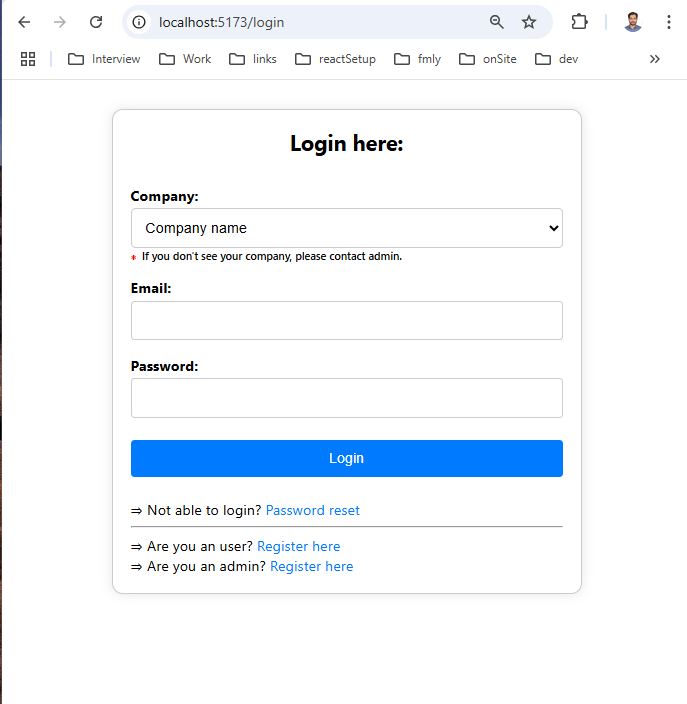
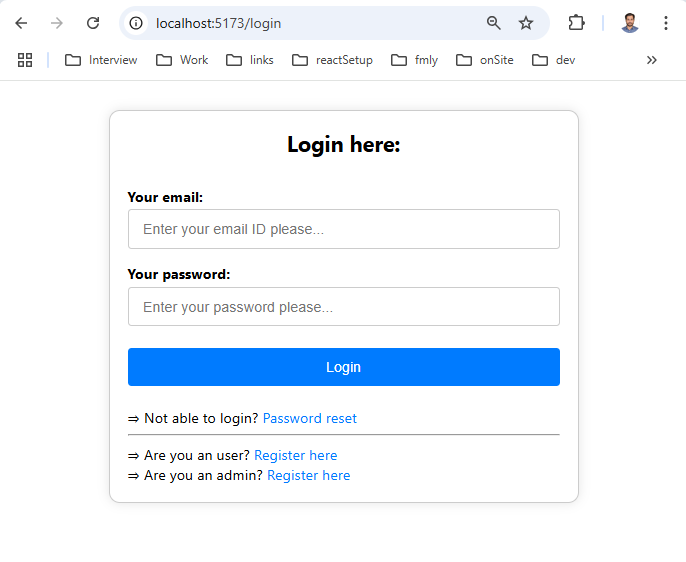
pushing latest learning

diff --git a/frontend/src/components/molecules/LoginZone/Login.tsx b/frontend/src/components/molecules/LoginZone/Login.tsx
@@ -1,38 +1,43 @@
-import React, { useState, useEffect } from 'react'
-import {getCompanyListName} from './Utils'
+import React, { useState } from 'react'
+import { handleLoginBtnClick} from './Utils'
 
 const Login: React.FC = () => {
-  const [getCompanyName, setCompanyName] = useState<string[]>([])
+  const [helperTextMessage, setHelperTextMessage] = useState('')
+  const [formData, setFormData] = useState({
+    emailId: '',
+    password: '',
+  })
 
-  useEffect(() => {
-    getCompanyListName(setCompanyName)
-  },[])
+  const handleFormValueChange = (e: React.ChangeEvent<HTMLInputElement>) => {
+    const { name, value } = e.target;
+    setFormData(prevData => ({
+      ...prevData,
+      [name]: value,
+    }));
+  };
 
-  const handleBtnClick = () => {}
+  const handleBtnClick = () => {
+    handleLoginBtnClick(setHelperTextMessage, formData)
+  }
 
   return (
     <div className="login-zone-screen">
       <h2>Login here:</h2>
       <form>
-        <label htmlFor="role">Company:</label>
-        <select id="role" name="role" required>
-          <option value="">Company name</option>
-          {getCompanyName.map((company: string) => (
-            <option key={company} value={company}>
-              {company}
-            </option>
-          ))}
-        </select>
-        <p className="helpher-text">
-          <span>&#8727; &nbsp;</span>If you don't see your company, please contact admin.
-        </p>
-        <label htmlFor="email">Email:</label>
-        <input type="text" id="email" name="email" required />
+        <label htmlFor="email">Your email:</label>
+        <input type="text" name="emailId" value={formData.emailId} placeholder="Enter your email ID please..." onChange={handleFormValueChange} />
 
-        <label htmlFor="password">Password:</label>
-        <input type="password" id="password" name="password" required />
+        <label htmlFor="password">Your password:</label>
+        <input type="password" name="password" value={formData.password} placeholder="Enter your password please..." onChange={handleFormValueChange} />
 
-        <button type="submit" onClick={handleBtnClick}>
+        {helperTextMessage && (
+          <p className="helpher-text">
+            <span>&#8727; &nbsp;</span>
+            {helperTextMessage}
+          </p>
+        )}
+
+        <button type="button" onClick={handleBtnClick}>
           Login
         </button>
       </form>

diff --git a/frontend/src/components/molecules/LoginZone/Utils.ts b/frontend/src/components/molecules/LoginZone/Utils.ts
@@ -1,4 +1,4 @@
-import { PUBLIC_API_URL } from "../../../constants"
+import { PRIVATE_API_URL, PUBLIC_API_URL } from "../../../constants"
 
 /**
  * 
@@ -113,6 +113,51 @@ export const handleRegistrationBtnClick = async (
     })
     .catch(() => {
       setHelperTextMessage('An error occurred while registering the company.');
+    });
+  }
+}
+
+export const handleLoginBtnClick = async (
+  setHelperTextMessage: (value: string) => void,
+  formData: { [key: string]: string }
+): Promise<void> => {
+  if (formData?.emailId === '') {
+    setHelperTextMessage('Please enter your email ID.');
+    return;
+  } else if (formData?.password === '') {
+    setHelperTextMessage('Please enter your password.');
+    return;
+  } else {
+    const url = `${PRIVATE_API_URL}login-user`;
+    fetch(url, {
+      method: 'POST',
+      body: JSON.stringify({
+      emailId: formData?.emailId,
+      password: formData?.password,
+      }),
+      headers: {
+      'Content-Type': 'application/json',
+      'Accept': 'application/json',
+      },
+    })
+    .then((response) => {
+      if (response.status === 200) {
+        return response.text();
+      } else {
+        setHelperTextMessage('Invalid email ID or password.');
+        throw new Error('Invalid email ID or password.');
+      }
+    })
+    .then((resp) => {
+      if (resp) {
+        window.sessionStorage.setItem('AccessToken', resp);
+        window.location.assign('/dashboard'); 
+      } else {
+        setHelperTextMessage('Unexpected response format.');
+      }
+    })
+    .catch((e) => {
+      setHelperTextMessage(e.message);
     });
   }
 }

diff --git a/frontend/src/routes/index.tsx b/frontend/src/routes/index.tsx
@@ -4,6 +4,7 @@ import ResetPassword from '../components/molecules/LoginZone/ResetPassword'
 import RegisterUser from '../components/molecules/LoginZone/RegisterUser'
 import RegisterCompany from '../components/molecules/LoginZone/RegisterCompany'
 import Home from '../components/molecules/Home'
+import Dashboard from '../components/molecules/Dashboard'
 
 const getRoutingPath = () => {
   const routes = [
@@ -44,6 +45,14 @@ const getRoutingPath = () => {
       element: (
         <Suspense fallback={<div>Loading...</div>}>
           <RegisterCompany />
+        </Suspense>
+      ),
+    },
+    {
+      path: '/dashboard',
+      element: (
+        <Suspense fallback={<div>Loading...</div>}>
+          <Dashboard />
         </Suspense>
       ),
     },

diff --git a/frontend/src/components/molecules/Dashboard/index.tsx b/frontend/src/components/molecules/Dashboard/index.tsx
@@ -1,9 +1,10 @@
-const Dashboard: React.FC<{ firstName: string }> = (props) => {
-  const { firstName } = props
+const Dashboard: React.FC = () => {
+  //const { firstName } = props
 
   return (
     <div>
-      <h1>Hi {firstName}</h1>
+      {/* <h1>Hi {firstName}</h1> */}
+      <h1>Dashboard</h1>
     </div>
   )
 }

diff --git a/frontend/src/constants/index.ts b/frontend/src/constants/index.ts
@@ -1,2 +1,3 @@
 export const API_HOST_URL = 'http://localhost:8080/'
 export const PUBLIC_API_URL = `${API_HOST_URL}public/v1/`
+export const PRIVATE_API_URL = `${API_HOST_URL}login/v1/`

diff --git a/backend/src/main/java/com/anu3dev/backend/service/LoginService.java b/backend/src/main/java/com/anu3dev/backend/service/LoginService.java
@@ -30,12 +30,13 @@ public class LoginService implements ILoginService {
     @Autowired
     AuthenticationManager authManager;
 
+    @Override
     public String verifyUserLogin(User user) {
         Authentication authentication = authManager.authenticate(new UsernamePasswordAuthenticationToken(user.getEmailId(), user.getPassword()));
         if (authentication.isAuthenticated()) {
             return jwtService.generateToken(user.getEmailId());
         } else {
-            return "failure";
+            return "Either username or password is incorrect.";
         }
     }
 

diff --git a/backend/src/main/java/com/anu3dev/backend/service/ILoginService.java b/backend/src/main/java/com/anu3dev/backend/service/ILoginService.java
@@ -8,11 +8,11 @@ import java.util.List;
 import java.util.Map;
 
 public interface ILoginService {
+    String verifyUserLogin(User user);
     String registerCompany(Company company) throws Exception;
     List<Company> getCompanyList();
     List<Company> getApprovedCompanyList();
     String registerUser(User user) throws Exception;
-    String verifyUserLogin(User user);
     List<User> getAllUsers();
     User saveUserData(User user);
     ResponseEntity<User> getUserData(int id);
